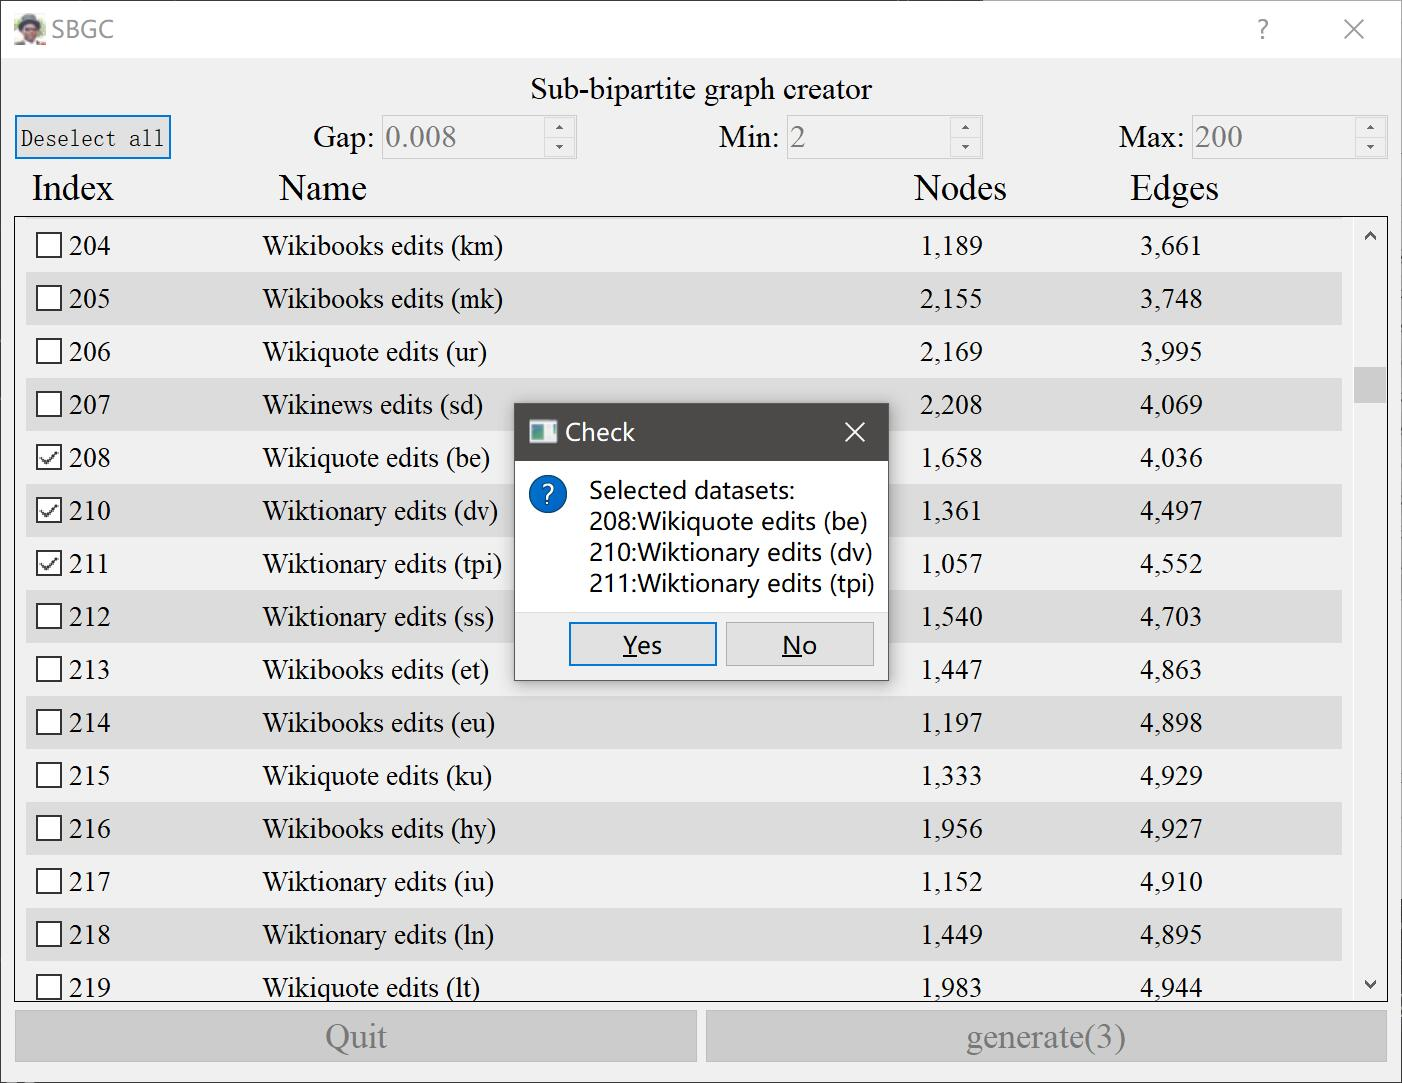
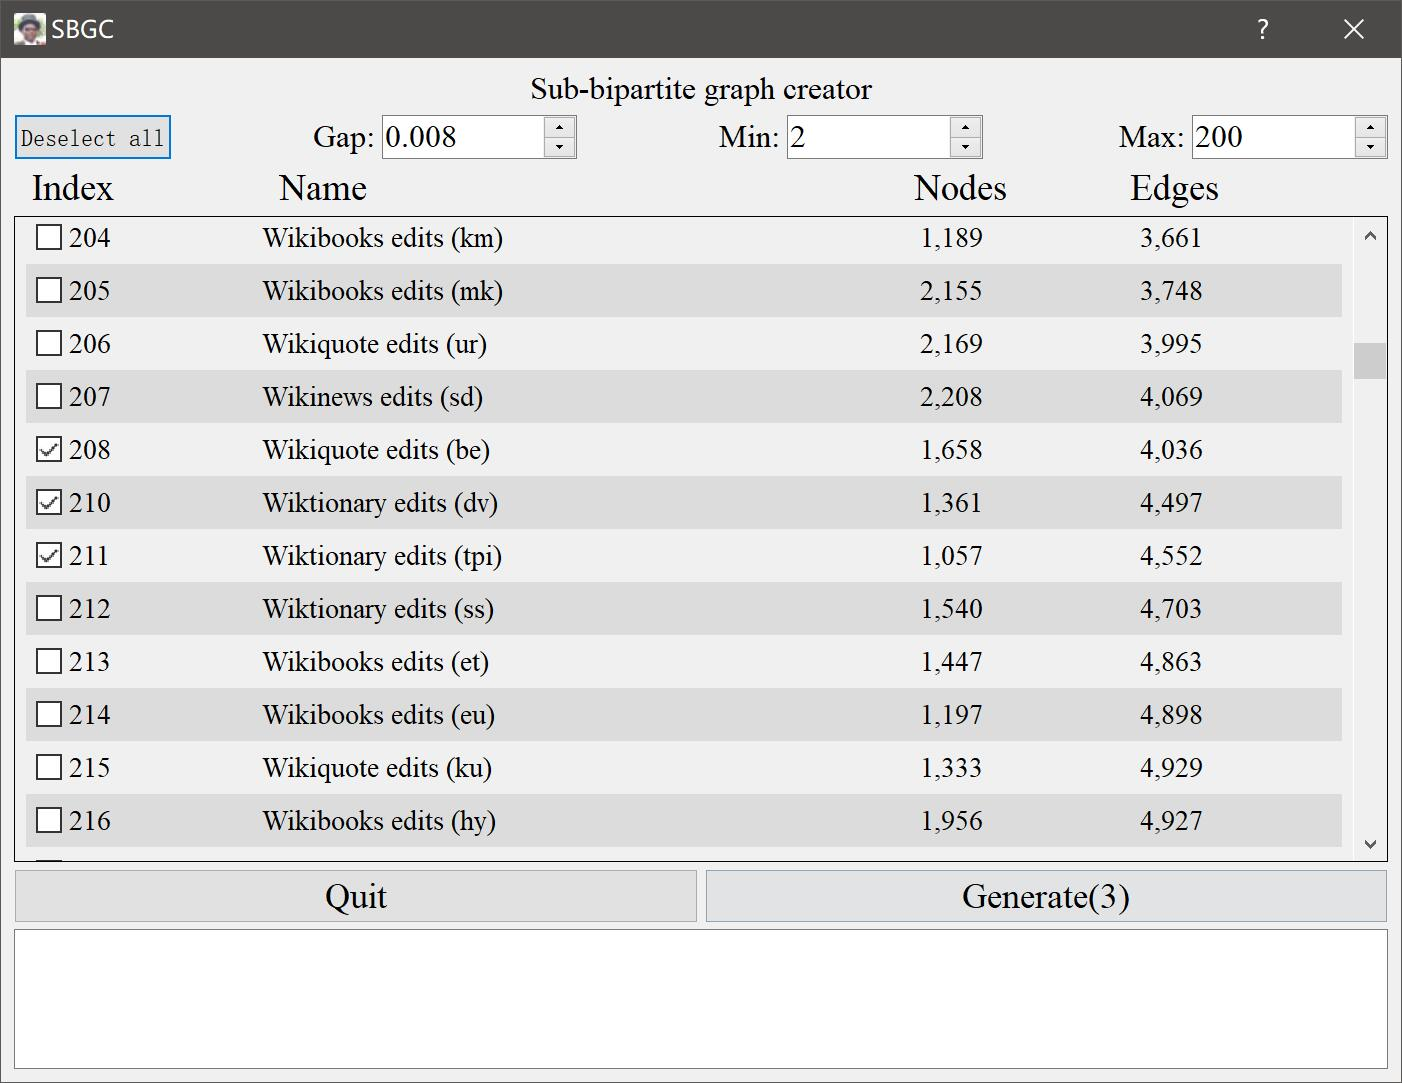
debug

diff --git a/main.py b/main.py
@@ -161,7 +161,7 @@ class main_window(Ui_Form):
                     self.selected_idx.remove(i)
                 except:
                     pass
-        self.Generate.setText('generate({})'.format(len(self.selected_idx)))
+        self.Generate.setText('Generate({})'.format(len(self.selected_idx)))
 
 
 class MySplashScreen(QSplashScreen):

diff --git a/README.md b/README.md
@@ -17,7 +17,7 @@ python ./main.py
 ### 二部图
 **定义：** 二部图有两个相互独立的不同类别的顶点集，边只存在于不同类别的顶点之间。
 
-**举例：** 二部图在各个领域无处不在。例如，对于维基词典的用户和页面之间的关系，可以用边表示用户在页面上的编辑行为，构成一个二部图。在图中，可以有多个用户合作编辑同一个页面，也可以由一个用户编辑多个页面，但没有用户-用户或页面-页面的联系。下图展示了一个用户-页面关系的二部图的例子。Bob($s1$)和Lisa($s3$)合作编辑B($t1$)页，而Jack($s2$)、Lisa($s3$)和Sam($s4$)合作编辑A($t1$)和C($t3$)页。
+**举例：** 二部图在各个领域无处不在。例如，对于维基词典的用户和页面之间的关系，可以用边表示用户在页面上的编辑行为，构成一个二部图。在图中，可以有多个用户合作编辑同一个页面，也可以由一个用户编辑多个页面，但没有用户-用户或页面-页面的联系。下图展示了一个用户-页面关系的二部图的例子。Bob(s1)和Lisa(s3)合作编辑B(t1)页，而Jack(s2)、Lisa(s3)和Sam(s4)合作编辑A(t1)和C(t3)页。
 
 <div align=center>
    <img src="./fig/intro.png" width="80%" alt="bipartite example"/><br/>
@@ -35,9 +35,9 @@ python ./main.py
 1. 定义：利用某一时序二部图的时序信息，从二部图中截出大小符合要求的连通图，可获得一组同类型的二部图数据集。利用该思想，可生成获得多类型二部图数据集。
 
 2. 输入：
-    - 同一张图的节点出现的相对时间间隔（$Gap$）
-    - 生成的图的最小节点数（$Min$）
-    - 生成的图的最大节点数（$Max$）
+    - 同一张图的节点出现的相对时间间隔（Gap）
+    - 生成的图的最小节点数（Min）
+    - 生成的图的最大节点数（Max）
 
 3. 输出：
 
@@ -68,7 +68,7 @@ python ./main.py
 </figure>
 </div>
 
-2. 选择需要处理的数据。利用左上角$Deselect all$按钮可取消所有已选数据集。当前已选数据集的数量会显示在右下角$generate$按钮上。当选择的数据集数量大于等于$2$时，单击$generate$按钮会弹出选中的数据集的确认界面。按下确定后将会开始生成由这些数据集为原始数据的多类型二部图数据集。
+2. 选择需要处理的数据。利用左上角“Deselect all”按钮可取消所有已选数据集。当前已选数据集的数量会显示在右下角“generate”按钮上。当选择的数据集数量大于等于2时，单击“generate”按钮会弹出选中的数据集的确认界面。按下确定后将会开始生成由这些数据集为原始数据的多类型二部图数据集。
 
 <div align=center>
    <img src="./fig/data_check.jpeg" width="80%" alt="main"/><br/>
@@ -92,7 +92,7 @@ python ./main.py
    <img src="./fig/raw.jpeg" width="80%" alt="main"/><br/>
 </div>
 
-6. 数据统计，包括每种类型的二部图中的所有$S$节点数量，所有$T$节点数量，总边数以及该类型的图的总数。
+6. 数据统计，包括每种类型的二部图中的所有S节点数量，所有T节点数量，总边数以及该类型的图的总数。
 
 <div align=center>
    <img src="./fig/data_exccel.jpeg" width="80%" alt="main"/><br/>
